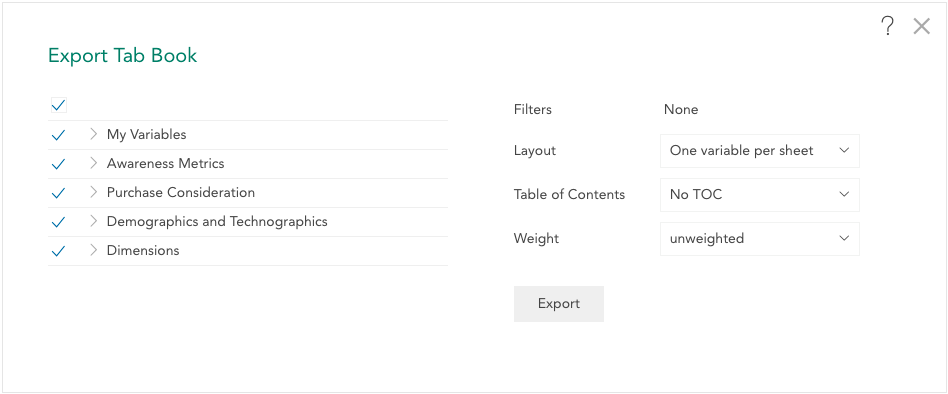
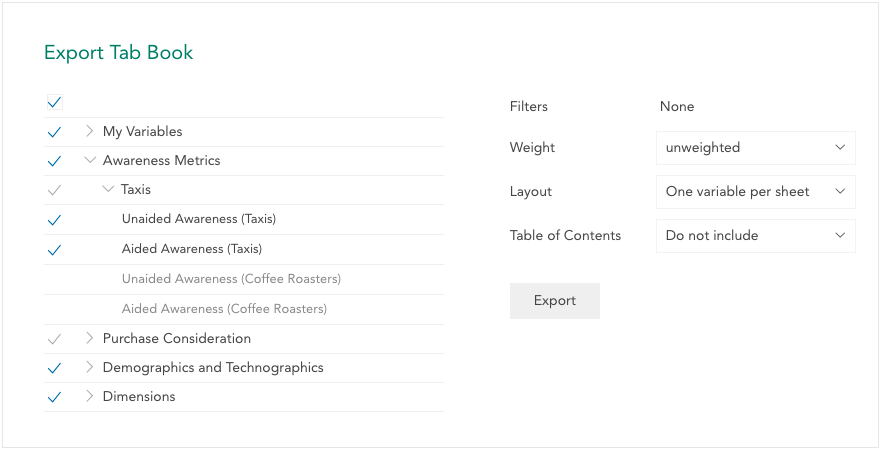
Update docs to match interface changes

diff --git a/crunch/crunch_tabbooks.md b/crunch/crunch_tabbooks.md
@@ -25,13 +25,13 @@ On the right, you can set the following options:
 
 **Filters** – Select any filters that should be applied to the tab book. When you enter the export panel, any filters you had selected in the multitable analysis view will be enabled, and you can add and remove filters as described in [Filtering Data](crunch_filtering-data.html). If the filter you want to use does not yet exist, click "cancel" to close the export panel, create the new filter object, and then return to the export panel.
 
-**Layout** – By default, each variable in the tab book is written to its own worksheet in the exported Excel file. Select **All variables on one sheet** to write the entire tab book on a single worksheet; this can make it easier to navigate through the tab book in Excel.
-
-**Table of Contents** – Set this option to **Include TOC** to have the Excel workbook include a table of contents worksheet in the front. For each variable in the tab book, this table of contents will link to the appropriate worksheet (or position in the single sheet if **All variables on one sheet** was selected).
-
 **Weight** – Select a weight variable to compute a tab book with weighted data, or select "unweighted". If you had a weight variable applied in the multitable analysis view, it will already be selected when you enter the export panel.
 
-Click **Export** to request the tab book. For large datasets, exporting can take some time. Once the Excel workbook is ready, a **Download** button will appear. 
+**Layout** – By default, each variable in the tab book is written to its own worksheet in the exported Excel file. Select **All variables on one sheet** to write the entire tab book on a single worksheet; this can make it easier to navigate through the tab book in Excel.
+
+**Table of Contents** – Set this option to **Include** to have the Excel workbook include a table of contents worksheet in the front. For each variable in the tab book, this table of contents will link to the appropriate worksheet (or position in the single sheet if **All variables on one sheet** was selected).
+
+Click **Export** to request the tab book. For large datasets, exporting can take some time. Once the Excel workbook is ready, a **Download** button will appear.
 
 ![](images/TabbookDownload.png)
 
